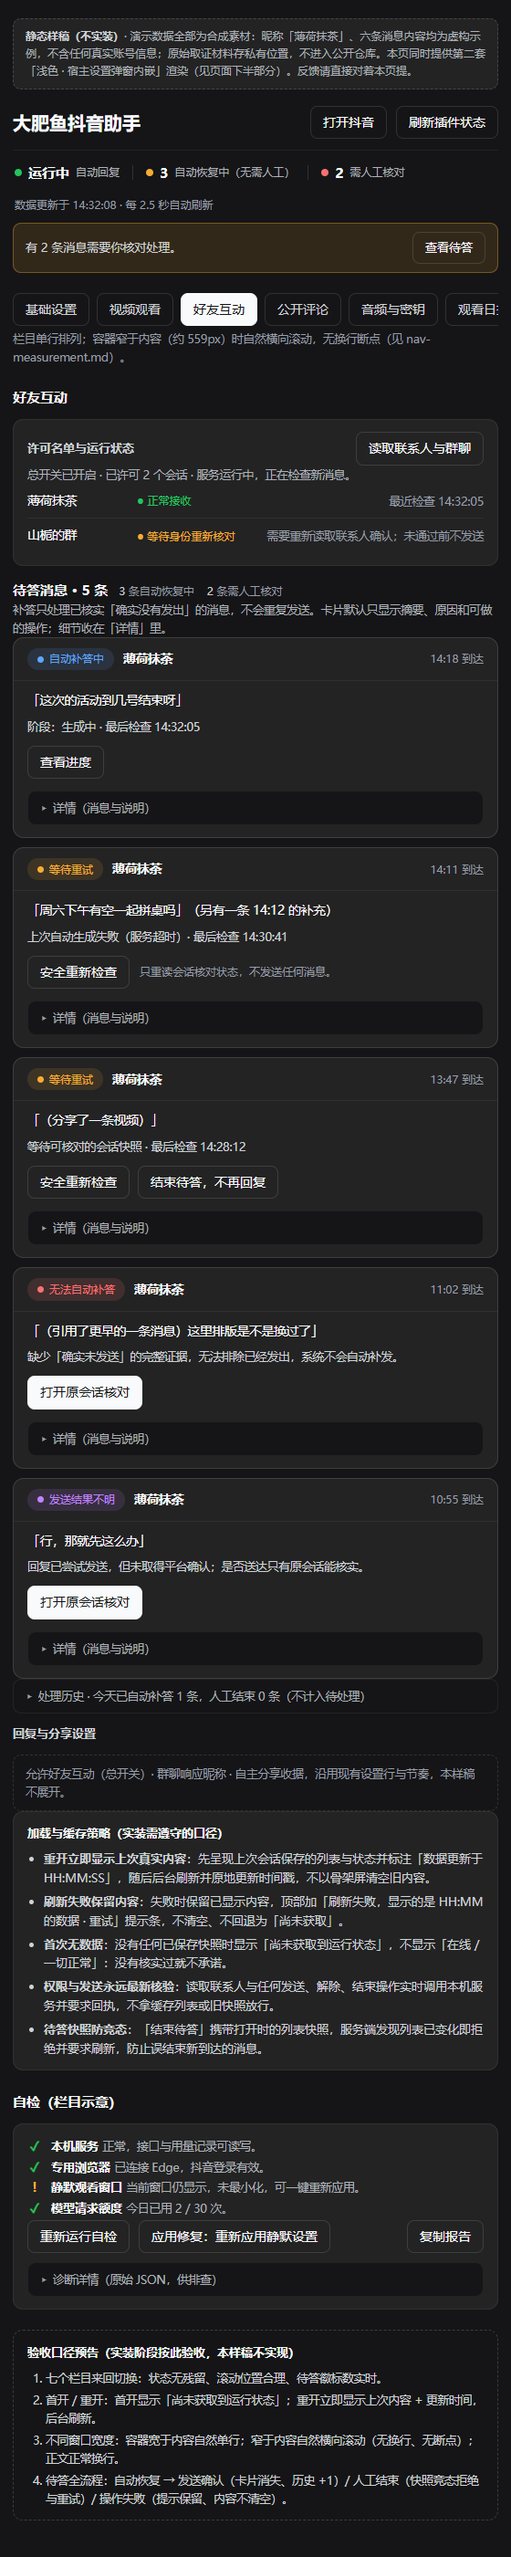
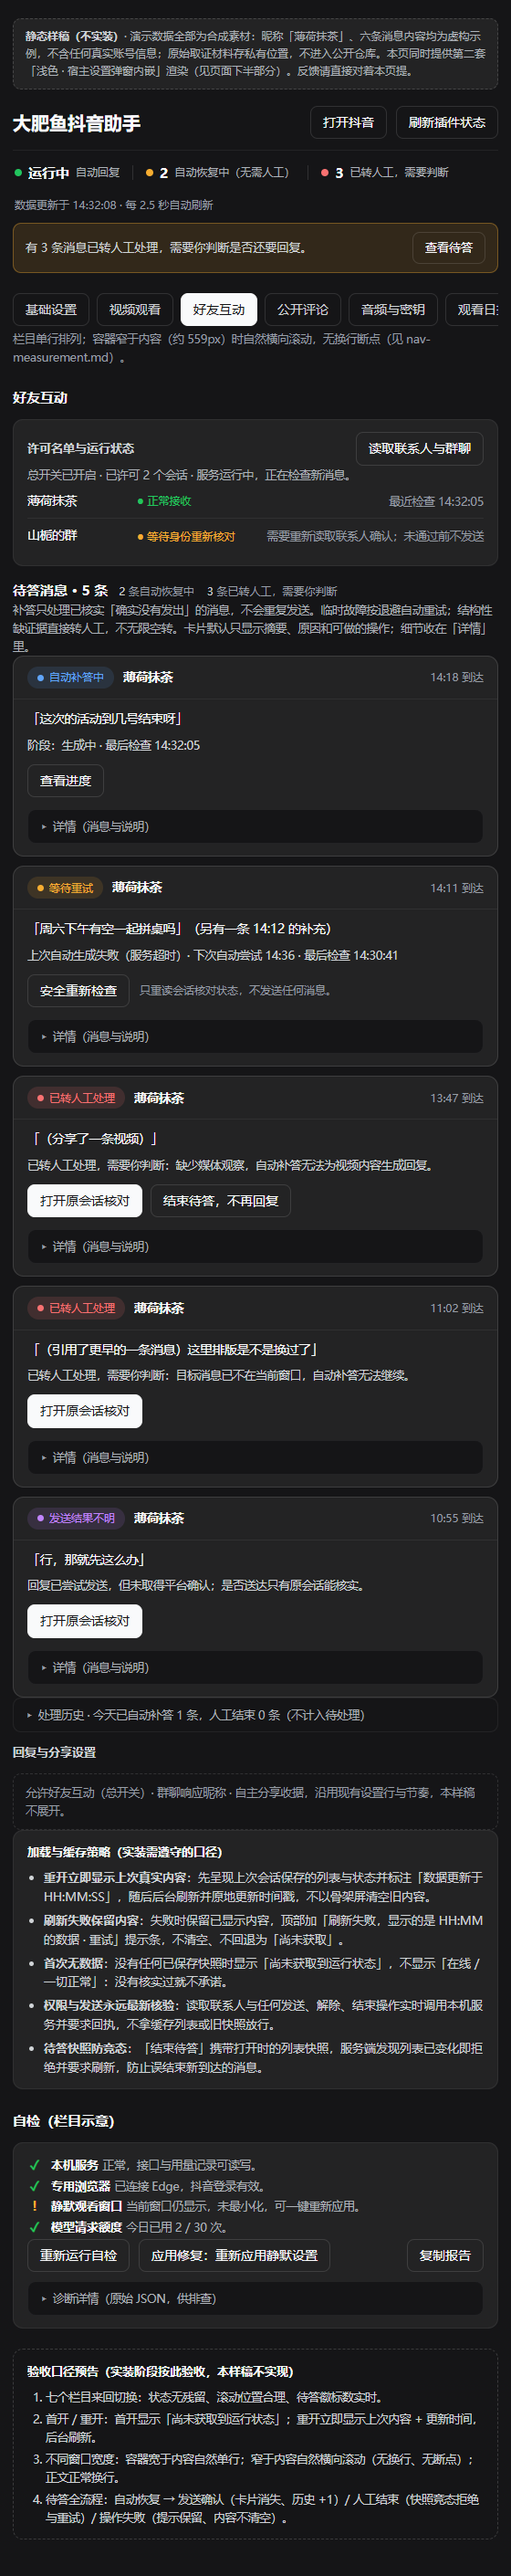
docs: 按审核纠正样稿状态语义、取证表述与合成编号

diff --git a/docs/mockups/backlog-ui-mockup.html b/docs/mockups/backlog-ui-mockup.html
@@ -312,7 +312,7 @@ pre{margin:8px 0 0;padding:11px 13px;background:var(--bg-layer-1);border:1px sol
       <!-- 态 c：无法自动补答（缺证据） -->
       <article class="bcard">
         <div class="bcard-top">
-          <span class="statechip missing"><span class="d" aria-hidden="true"></span>无法自动补答</span>
+          <span class="statechip missing"><span class="d" aria-hidden="true"></span>已转人工处理</span>
           <span class="who">薄荷抹茶</span>
           <span class="at">11:02 到达</span>
         </div>

diff --git a/docs/backlog-forensics.md b/docs/backlog-forensics.md
@@ -16,16 +16,16 @@
 
 ## A. 六条逐条档案表
 
-当前 open 记录 6 条（`isOpenBacklogRecord` 过滤后），补答队列覆盖其中 5 条（#1 除外）。队列状态机落点：`state='waiting'`、`reason='waiting-bounded-generation-evidence'`、`retryCount=20`（封顶）、`generationAttempts=0`、`text=null`、`nextRetryAt` 每 300s 滚动。
+当前 open 记录 6 条（`isOpenBacklogRecord` 过滤后），补答队列覆盖其中 5 条（R1 除外）。队列状态机落点：`state='waiting'`、`reason='waiting-bounded-generation-evidence'`、`retryCount=20`（封顶）、`generationAttempts=0`、`text=null`、`nextRetryAt` 每 300s 滚动。
 
 | # | 归档id（合成编号） | 消息内容（合成改写） | 到达时间(UTC) | phase | 队列落点 | 卡点环节 | 无法前进的原因（源码依据） | 应归五态 |
 |---|---|---|---|---|---|---|---|---|
-| 1 | `R1` | （合成改写）好友分享了一条视频作品卡片 | 11-01 19:32 | superseded | **不在队列**（每轮扫描被剔除） | 接收→资格（superseded）→**映射** | 生成期间对方消息变化（11-01 19:32:35 "待回复消息在生成期间被撤回、改动或方向不明"）归档；此后每轮 `mapBacklogMessages` 的 native 路径要求目标消息仍在当前窗口（chat-message.mjs:115-117），而 11-01 的消息早已挤出窗口（seen 于 11-05 15:24 随基线重建，19 条最早为 11-02 17:35 的消息）→ 永远 `ready=false, reason='native-target-unavailable'`。已生成回复文本保留但无法核对目标在位，按"宁缺毋滥"不发送 | **缺证据无法补答** |
-| 2 | `R2` | （合成改写）好友激烈质疑对方此前关于某记忆插件的说法 | 11-04 17:14 | model | 队列 `waiting-bounded-generation-evidence` | 接收→资格→**生成** | 17:14:52 实时链路 agent.reply 被"未完整返回（max-tokens）"打断（chat-agent.mjs:174 → native-watch-decision.mjs:51）→ poll catch 置 paused → 下一 tick 归档。归档后补答队列先与两条媒体消息（17:25/17:28 归档）合并，混合 targets 含媒体 → `targets.some(item=>item.message.media…)` 门槛（chat-service.mjs:781）拒绝生成。纯文本本可生成，被**媒体连坐**阻塞；17:15–17:25 独立窗口内无生成尝试的日志证据（事件流静默），attempt=none 证明发送侧从未开始 | **暂时失败可恢复**（自动重试中，实际恢复被连坐阻塞） |
-| 3 | `R3` | （合成改写）好友分享视频作品卡片 | 11-04 17:25 | model | 同上（同一队列） | 接收→资格→**生成** | 同 #2 实时打断→归档；作为媒体目标，它是连坐的**制造者**之一：受界生成上下文（≤12 条纯文本）无法承载媒体观察（媒体观察不持久化、补答不重采画面），`chat-service.mjs:781` 按设计拒绝为媒体目标生成——但与文本目标合并在同一队列后，拒绝被放大为整批等待 | **缺证据无法补答**（无旧文本可复用；除非拆队或允许以卡片元数据诚实生成） |
-| 4 | `R4` | （合成改写）好友分享视频作品卡片 | 11-04 17:28 | model | 同上（同一队列） | 接收→资格→**生成** | 同 #3 | **缺证据无法补答** |
-| 5 | `R5` | （合成改写）好友询问近况 | 11-04 18:57:00 | model | 同上（同一队列） | 接收→资格→**生成** | 18:57:08 实时打断→归档→进入已含媒体的混合队列→连坐 | **暂时失败可恢复**（被连坐阻塞） |
-| 6 | `R6` | （合成改写）好友追问为何不回复 | 11-04 18:57:14 | model | 同上（同一队列） | 接收→资格→**生成** | 18:57:21 实时打断→归档→连坐 | **暂时失败可恢复**（被连坐阻塞） |
+| R1 | `R1` | （合成改写）好友分享了一条视频作品卡片 | 11-01 19:32 | superseded | **不在队列**（每轮扫描被剔除） | 接收→资格（superseded）→**映射** | 生成期间对方消息变化（11-01 19:32:35 "待回复消息在生成期间被撤回、改动或方向不明"）归档；此后每轮 `mapBacklogMessages` 的 native 路径要求目标消息仍在当前窗口（chat-message.mjs:115-117），而 11-01 的消息早已挤出窗口（seen 于 11-05 15:24 随基线重建，19 条最早为 11-02 17:35 的消息）→ 永远 `ready=false, reason='native-target-unavailable'`。已生成回复文本保留但无法核对目标在位，按"宁缺毋滥"不发送 | **缺证据无法补答** |
+| R2 | `R2` | （合成改写）好友激烈质疑对方此前关于某记忆插件的说法 | 11-04 17:14 | model | 队列 `waiting-bounded-generation-evidence` | 接收→资格→**生成** | 17:14:52 实时链路 agent.reply 被"未完整返回（max-tokens）"打断（chat-agent.mjs:174 → native-watch-decision.mjs:51）→ poll catch 置 paused → 下一 tick 归档。归档后补答队列先与两条媒体消息（17:25/17:28 归档）合并，混合 targets 含媒体 → `targets.some(item=>item.message.media…)` 门槛（chat-service.mjs:781）拒绝生成。纯文本本可生成，被**媒体连坐**阻塞；17:15–17:25 独立窗口内无生成尝试的日志证据（事件流静默），attempt=none 证明发送侧从未开始 | **暂时失败可恢复**（自动重试中，实际恢复被连坐阻塞） |
+| R3 | `R3` | （合成改写）好友分享视频作品卡片 | 11-04 17:25 | model | 同上（同一队列） | 接收→资格→**生成** | 同 #2 实时打断→归档；作为媒体目标，它是连坐的**制造者**之一：受界生成上下文（≤12 条纯文本）无法承载媒体观察（媒体观察不持久化、补答不重采画面），`chat-service.mjs:781` 按设计拒绝为媒体目标生成——但与文本目标合并在同一队列后，拒绝被放大为整批等待 | **缺证据无法补答**（无旧文本可复用；除非拆队或允许以卡片元数据诚实生成） |
+| R4 | `R4` | （合成改写）好友分享视频作品卡片 | 11-04 17:28 | model | 同上（同一队列） | 接收→资格→**生成** | 同 #3 | **缺证据无法补答** |
+| R5 | `R5` | （合成改写）好友询问近况 | 11-04 18:57:00 | model | 同上（同一队列） | 接收→资格→**生成** | 18:57:08 实时打断→归档→进入已含媒体的混合队列→连坐 | **暂时失败可恢复**（被连坐阻塞） |
+| R6 | `R6` | （合成改写）好友追问为何不回复 | 11-04 18:57:14 | model | 同上（同一队列） | 接收→资格→**生成** | 18:57:21 实时打断→归档→连坐 | **暂时失败可恢复**（被连坐阻塞） |
 
 **已结案 6 条（不计入待答，对照说明）**：
 
@@ -63,7 +63,7 @@ read_evidence 证据链（此前提交引入，本次首次派上用场）：
 | 15:35:20 / 15:40:20 / 15:45:20 | 14 | false |
 
 - 恢复核对的真实执行者：`mapBacklogMessages`（chat-message.mjs:92-130）——把归档时 `recoveryEvidence.expectedContent` 的**完整后缀**在当前窗口指纹序列中做唯一匹配，native 目标要求 `messages.findIndex(id)` 在位且 `identitySource==='dom-message-id'`（:115-118）。`compareMessageWatermark`（chat-message.mjs:43-64，锚点必须在窗口末尾）只在**补答发送前**的发送前水位核对使用，不参与恢复映射。
-- 对六条的影响：五条活跃记录（11-04）的 expectedContent（13–14 条）与当前 14 条窗口高度重叠，15→14 抖动**没有**阻断它们的映射（队列 targets 恰为这 5 条即证）。#1 的失败与抖动无关：其 15 条快照（止于 11-01 19:32）与当前窗口（最早 11-02 17:35）**零交集**，无论窗口稳定与否都无法匹配。
+- 对六条的影响：五条活跃记录（11-04）的 expectedContent（13–14 条）与当前 14 条窗口高度重叠，15→14 抖动**没有**阻断它们的映射（队列 targets 恰为这 5 条即证）。R1 的失败与抖动无关：其 15 条快照（止于 11-01 19:32）与当前窗口（最早 11-02 17:35）**零交集**，无论窗口稳定与否都无法匹配。
 - 附带发现（证据链字段 bug）：read_evidence 的 `nativeIdCount` 恒为 0——`nativeId` 在 `publicMessages→identify` 阶段被剥离后统计，统计位置错误；应在剥离前的 raw 行上统计并透传。这解释了 dump 里 `nativeIdCount:0` 而映射仍走 native 路径的"矛盾"。
 
 ### B3. 退避与上限的真实语义
@@ -115,7 +115,7 @@ read_evidence 证据链（此前提交引入，本次首次派上用场）：
 5. **缺证据无法补答**：有**明确的映射失败码**（如 `native-target-unavailable`、`legacy-native-target-unavailable`、`qualification-evidence-unavailable`）持续成立；或媒体目标且无旧生成文本（生成门槛拒绝）。
 6. 兜底：不满足以上任何一条的 open 记录归「暂时失败可恢复」并标注等待码——**不得**仅凭"不在当前队列"归入缺证据态。
 
-当前六条对应：#1=缺证据（native-target-unavailable）；#2/#5/#6=暂时失败可恢复（连坐）；#3/#4=缺证据（媒体目标无旧文本，生成门槛拒绝）；发送结果不明当前为空（两条 uncertain 已读回结案）。
+当前六条对应：R1=缺证据（native-target-unavailable）；R2/R5/R6=暂时失败可恢复（连坐）；R3/R4=缺证据（媒体目标无旧文本，生成门槛拒绝）；发送结果不明当前为空（两条 uncertain 已读回结案）。
 
 ### D2. 后端需暴露的字段（记录级）
 
